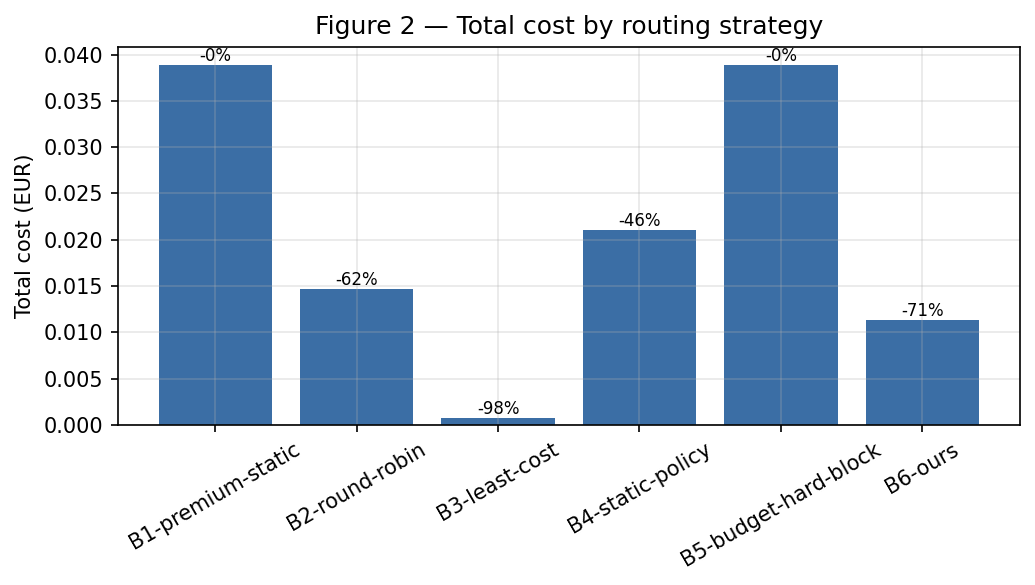
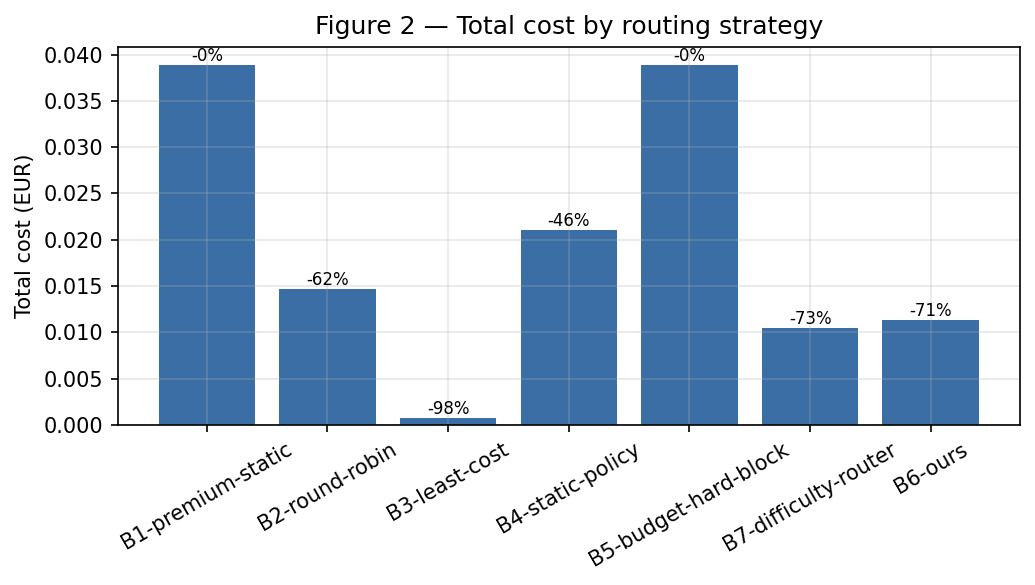
paper+exp: literature-style difficulty-router baseline (B7), feature-matrix positioning table, requirements.txt; B7 saves 73% at lower quality vs Ours 71% at higher quality + governance; refresh results/figures/PDF

diff --git a/experimentation/internal/router/router.go b/experimentation/internal/router/router.go
@@ -319,10 +319,59 @@ func blockedNoCandidate(rejected []string) Decision {
 	return Decision{Blocked: true, Reason: "no sovereignty-compliant model available", RejectedModels: rejected, Findings: findingsFor(rejected)}
 }
 
+// ---------- B7 Difficulty router (Hybrid-LLM / RouteLLM-style proxy) ----------
+
+// DifficultyRouter routes by an estimated query difficulty/quality need, like the
+// learned difficulty routers in the literature — but using a transparent
+// heuristic (token length + the workload's minimum-quality requirement) rather
+// than a trained predictor. It is a stronger, literature-aligned baseline than
+// the naïve B1-B5, and it respects sovereignty (chooses among compliant models).
+type DifficultyRouter struct{}
+
+func (DifficultyRouter) Name() string { return "B7-difficulty-router" }
+
+func (DifficultyRouter) Choose(ctx RequestContext, models map[string]catalog.Model) Decision {
+	ok, rejected := candidates(ctx, models)
+	if len(ok) == 0 {
+		return blockedNoCandidate(rejected)
+	}
+	lenScore := float64(ctx.EstInputTokens) / 400.0
+	if lenScore > 1 {
+		lenScore = 1
+	}
+	// The quality requirement dominates (Hybrid-LLM-style: quality-needy/long
+	// queries -> stronger models), so it does not collapse to always-cheapest.
+	difficulty := ctx.MinQuality
+	if lenScore > difficulty {
+		difficulty = lenScore
+	}
+	var best catalog.Model
+	found := false
+	for _, m := range ok {
+		if m.QualityPrior >= difficulty {
+			if !found || estCost(m, ctx.EstInputTokens, ctx.EstOutputTokens) < estCost(best, ctx.EstInputTokens, ctx.EstOutputTokens) {
+				best, found = m, true
+			}
+		}
+	}
+	if !found {
+		best = ok[0]
+		for _, m := range ok[1:] {
+			if m.QualityPrior > best.QualityPrior {
+				best = m
+			}
+		}
+	}
+	return Decision{ModelID: best.ID, Reason: fmt.Sprintf("difficulty=%.2f", difficulty),
+		ExpectedCostEUR: estCost(best, ctx.EstInputTokens, ctx.EstOutputTokens),
+		RejectedModels:  rejected, Findings: findingsFor(rejected), Fallback: best.ID != ctx.PremiumModel}
+}
+
 // All returns the full strategy set in canonical order. RoundRobin is stateful,
 // so a fresh instance is created per call site.
 func All() []Strategy {
 	return []Strategy{
-		PremiumStatic{}, &RoundRobin{}, LeastCost{}, StaticPolicy{}, BudgetHardBlock{}, Ours{W: DefaultWeights()},
+		PremiumStatic{}, &RoundRobin{}, LeastCost{}, StaticPolicy{}, BudgetHardBlock{},
+		DifficultyRouter{}, Ours{W: DefaultWeights()},
 	}
 }

diff --git a/experimentation/results/TEST_STATUS.md b/experimentation/results/TEST_STATUS.md
@@ -1,8 +1,8 @@
 # Experiment test status
 
-- Run started: 2026-06-07T00:28:29Z
-- Last update: 2026-06-07T00:28:31Z
-- Totals: **42 PASS**, **0 FAIL**, 42 total
+- Run started: 2026-06-07T05:57:14Z
+- Last update: 2026-06-07T05:57:20Z
+- Totals: **46 PASS**, **0 FAIL**, 46 total
 
 | # | Group | Test | Status | Duration | Details |
 |--:|-------|------|:------:|---------:|---------|
@@ -26,25 +26,29 @@
 | 18 | RQ1-3-matrix | B5-budget-hard-block / W2-RAG-Docs | PASS | 0ms | {"blocked":0,"costEUR":0.003018,"meanQuality1to5":5,"served":10} |
 | 19 | RQ1-3-matrix | B5-budget-hard-block / W3-Dev-Assistant | PASS | 0ms | {"blocked":0,"costEUR":0.012403,"meanQuality1to5":4.7,"served":10} |
 | 20 | RQ1-3-matrix | B5-budget-hard-block / W4-Analytical-Agent | PASS | 0ms | {"blocked":0,"costEUR":0.008095,"meanQuality1to5":4.2,"served":10} |
-| 21 | RQ1-3-matrix | B6-ours / W1-HR-Chatbot | PASS | 0ms | {"blocked":0,"costEUR":0.000717,"meanQuality1to5":4.3,"served":10} |
-| 22 | RQ1-3-matrix | B6-ours / W2-RAG-Docs | PASS | 0ms | {"blocked":0,"costEUR":0.000182,"meanQuality1to5":5,"served":10} |
-| 23 | RQ1-3-matrix | B6-ours / W3-Dev-Assistant | PASS | 0ms | {"blocked":0,"costEUR":0.009958,"meanQuality1to5":4.9,"served":10} |
-| 24 | RQ1-3-matrix | B6-ours / W4-Analytical-Agent | PASS | 0ms | {"blocked":0,"costEUR":0.000497,"meanQuality1to5":4.4,"served":10} |
-| 25 | RQ4-sovereignty | global / B1-premium-static | PASS | 2ms | {"blocked":0,"costEUR":0.03893,"meanQualityNorm":0.9,"reroutes":0,"served":40,"violations":0} |
-| 26 | RQ4-sovereignty | global / B6-ours | PASS | 0ms | {"blocked":0,"costEUR":0.011353,"meanQualityNorm":0.9125,"reroutes":40,"served":40,"violations":0} |
-| 27 | RQ4-sovereignty | eu-only / B1-premium-static | PASS | 0ms | {"blocked":0,"costEUR":0.03893,"meanQualityNorm":0.9,"reroutes":0,"served":40,"violations":40} |
-| 28 | RQ4-sovereignty | eu-only / B6-ours | PASS | 0ms | {"blocked":0,"costEUR":0.018161,"meanQualityNorm":0.86625,"reroutes":40,"served":40,"violations":0} |
-| 29 | RQ4-sovereignty | france-only / B1-premium-static | PASS | 0ms | {"blocked":0,"costEUR":0.03893,"meanQualityNorm":0.9,"reroutes":0,"served":40,"violations":40} |
-| 30 | RQ4-sovereignty | france-only / B6-ours | PASS | 0ms | {"blocked":20,"costEUR":0.00011,"meanQualityNorm":0.74,"reroutes":20,"served":20,"violations":0} |
-| 31 | RQ4-sovereignty | no-external-sensitive / B1-premium-static | PASS | 0ms | {"blocked":0,"costEUR":0.03893,"meanQualityNorm":0.9,"reroutes":0,"served":40,"violations":10} |
-| 32 | RQ4-sovereignty | no-external-sensitive / B6-ours | PASS | 0ms | {"blocked":0,"costEUR":0.010691,"meanQualityNorm":0.89125,"reroutes":40,"served":40,"violations":0} |
-| 33 | RQ4-sovereignty | self-hosted-only / B1-premium-static | PASS | 0ms | {"blocked":0,"costEUR":0.03893,"meanQualityNorm":0.9,"reroutes":0,"served":40,"violations":40} |
-| 34 | RQ4-sovereignty | self-hosted-only / B6-ours | PASS | 0ms | {"blocked":20,"costEUR":0.00011,"meanQualityNorm":0.74,"reroutes":20,"served":20,"violations":0} |
-| 35 | RQ5-budget | alert-only | PASS | 0ms | {"availabilityPct":100,"blocked":0,"budgetEUR":0.003238,"meanQualityNorm":0.8,"overrunPct":150,"served":10,"usedEUR":0.008095} |
-| 36 | RQ5-budget | hard-block | PASS | 0ms | {"availabilityPct":60,"blocked":4,"budgetEUR":0.003238,"meanQualityNorm":0.75,"overrunPct":54.030266,"served":6,"usedEUR":0.004987} |
-| 37 | RQ5-budget | ours-graceful | PASS | 0ms | {"availabilityPct":100,"blocked":0,"budgetEUR":0.003238,"meanQualityNorm":0.85,"overrunPct":0,"served":10,"usedEUR":0.000497} |
-| 38 | RQ6-breakeven | managed-vs-selfhosted-curve | PASS | 0ms | {"breakEvenTokensPerDay":25628906.25,"modeled":true,"points":14} |
-| 39 | RQ-ablation | full-system | PASS | 0ms | {"costEUR":0.011353,"meanQualityNorm":0.9125} |
-| 40 | RQ-ablation | no-cost-term | PASS | 0ms | {"costEUR":0.03893,"meanQualityNorm":0.9} |
-| 41 | RQ-ablation | no-quality-term | PASS | 0ms | {"costEUR":0.001213,"meanQualityNorm":0.8625} |
-| 42 | RQ-ablation | no-latency-term | PASS | 0ms | {"costEUR":0.011353,"meanQualityNorm":0.9125} |
+| 21 | RQ1-3-matrix | B7-difficulty-router / W1-HR-Chatbot | PASS | 0ms | {"blocked":0,"costEUR":0.000055,"meanQuality1to5":3.96,"served":10} |
+| 22 | RQ1-3-matrix | B7-difficulty-router / W2-RAG-Docs | PASS | 0ms | {"blocked":0,"costEUR":0.000182,"meanQuality1to5":5,"served":10} |
+| 23 | RQ1-3-matrix | B7-difficulty-router / W3-Dev-Assistant | PASS | 0ms | {"blocked":0,"costEUR":0.009958,"meanQuality1to5":4.9,"served":10} |
+| 24 | RQ1-3-matrix | B7-difficulty-router / W4-Analytical-Agent | PASS | 4054ms | {"blocked":0,"costEUR":0.000292,"meanQuality1to5":4,"served":10} |
+| 25 | RQ1-3-matrix | B6-ours / W1-HR-Chatbot | PASS | 0ms | {"blocked":0,"costEUR":0.000717,"meanQuality1to5":4.3,"served":10} |
+| 26 | RQ1-3-matrix | B6-ours / W2-RAG-Docs | PASS | 0ms | {"blocked":0,"costEUR":0.000182,"meanQuality1to5":5,"served":10} |
+| 27 | RQ1-3-matrix | B6-ours / W3-Dev-Assistant | PASS | 0ms | {"blocked":0,"costEUR":0.009958,"meanQuality1to5":4.9,"served":10} |
+| 28 | RQ1-3-matrix | B6-ours / W4-Analytical-Agent | PASS | 0ms | {"blocked":0,"costEUR":0.000497,"meanQuality1to5":4.4,"served":10} |
+| 29 | RQ4-sovereignty | global / B1-premium-static | PASS | 0ms | {"blocked":0,"costEUR":0.03893,"meanQualityNorm":0.9,"reroutes":0,"served":40,"violations":0} |
+| 30 | RQ4-sovereignty | global / B6-ours | PASS | 0ms | {"blocked":0,"costEUR":0.011353,"meanQualityNorm":0.9125,"reroutes":40,"served":40,"violations":0} |
+| 31 | RQ4-sovereignty | eu-only / B1-premium-static | PASS | 0ms | {"blocked":0,"costEUR":0.03893,"meanQualityNorm":0.9,"reroutes":0,"served":40,"violations":40} |
+| 32 | RQ4-sovereignty | eu-only / B6-ours | PASS | 0ms | {"blocked":0,"costEUR":0.018161,"meanQualityNorm":0.86625,"reroutes":40,"served":40,"violations":0} |
+| 33 | RQ4-sovereignty | france-only / B1-premium-static | PASS | 0ms | {"blocked":0,"costEUR":0.03893,"meanQualityNorm":0.9,"reroutes":0,"served":40,"violations":40} |
+| 34 | RQ4-sovereignty | france-only / B6-ours | PASS | 0ms | {"blocked":20,"costEUR":0.00011,"meanQualityNorm":0.74,"reroutes":20,"served":20,"violations":0} |
+| 35 | RQ4-sovereignty | no-external-sensitive / B1-premium-static | PASS | 0ms | {"blocked":0,"costEUR":0.03893,"meanQualityNorm":0.9,"reroutes":0,"served":40,"violations":10} |
+| 36 | RQ4-sovereignty | no-external-sensitive / B6-ours | PASS | 0ms | {"blocked":0,"costEUR":0.010691,"meanQualityNorm":0.89125,"reroutes":40,"served":40,"violations":0} |
+| 37 | RQ4-sovereignty | self-hosted-only / B1-premium-static | PASS | 0ms | {"blocked":0,"costEUR":0.03893,"meanQualityNorm":0.9,"reroutes":0,"served":40,"violations":40} |
+| 38 | RQ4-sovereignty | self-hosted-only / B6-ours | PASS | 0ms | {"blocked":20,"costEUR":0.00011,"meanQualityNorm":0.74,"reroutes":20,"served":20,"violations":0} |
+| 39 | RQ5-budget | alert-only | PASS | 0ms | {"availabilityPct":100,"blocked":0,"budgetEUR":0.003238,"meanQualityNorm":0.8,"overrunPct":150,"served":10,"usedEUR":0.008095} |
+| 40 | RQ5-budget | hard-block | PASS | 0ms | {"availabilityPct":60,"blocked":4,"budgetEUR":0.003238,"meanQualityNorm":0.75,"overrunPct":54.030266,"served":6,"usedEUR":0.004987} |
+| 41 | RQ5-budget | ours-graceful | PASS | 0ms | {"availabilityPct":100,"blocked":0,"budgetEUR":0.003238,"meanQualityNorm":0.85,"overrunPct":0,"served":10,"usedEUR":0.000497} |
+| 42 | RQ6-breakeven | managed-vs-selfhosted-curve | PASS | 0ms | {"breakEvenTokensPerDay":25628906.25,"modeled":true,"points":14} |
+| 43 | RQ-ablation | full-system | PASS | 0ms | {"costEUR":0.011353,"meanQualityNorm":0.9125} |
+| 44 | RQ-ablation | no-cost-term | PASS | 0ms | {"costEUR":0.03893,"meanQualityNorm":0.9} |
+| 45 | RQ-ablation | no-quality-term | PASS | 0ms | {"costEUR":0.001213,"meanQualityNorm":0.8625} |
+| 46 | RQ-ablation | no-latency-term | PASS | 0ms | {"costEUR":0.011353,"meanQualityNorm":0.9125} |

diff --git a/experimentation/paper/paper.md b/experimentation/paper/paper.md
@@ -101,6 +101,25 @@ both absolute and pairwise protocols while acknowledging its documented biases (
 EU AI Act [euaiact2024]; our system targets *audit preparation* for these regimes, not legal
 attestation.
 
+**Positioning (Table 0).** The following feature matrix makes the delta explicit: prior routing work
+optimizes the cost–quality trade-off; we add the governance dimensions (sovereignty, per-tenant
+budget, attribution) at the gateway/control-plane level, and the managed-vs-self-hosted decision.
+
+| Capability | FrugalGPT | Hybrid LLM | RouteLLM | AutoMix | **Ours** |
+|---|:--:|:--:|:--:|:--:|:--:|
+| Cost-aware routing | ✓ | ✓ | ✓ | ✓ | ✓ |
+| Quality-aware routing | ✓ | ✓ | ✓ | ✓ | ✓ |
+| Learned difficulty predictor | ✓ | ✓ | ✓ | ✓ | ✗ (priors; future: graft) |
+| **Hard sovereignty constraints** | ✗ | ✗ | ✗ | ✗ | **✓** |
+| **Per-team/namespace budgets** | ✗ | ✗ | ✗ | ✗ | **✓** |
+| **Budget-aware graceful degradation** | ✗ | ✗ | ✗ | ✗ | **✓** |
+| **Cost attribution (team/ns/app)** | ✗ | ✗ | ✗ | ✗ | **✓** |
+| **Managed-vs-self-hosted break-even** | ✗ | ✗ | ✗ | ✗ | **✓** |
+| Gateway/K8s control-plane artifact | ✗ | ✗ | ✗ | ✗ | **✓** |
+
+We do not claim to beat learned routers on the cost–quality frontier; rather, our governance layer is
+*orthogonal* and could wrap any of them (a planned integration, §9).
+
 ## 3. Problem Formulation and Algorithm
 
 A request $r$ carries metadata (team, namespace, sensitivity) and an estimated token footprint. Given
@@ -169,14 +188,20 @@ supports ≥30 repetitions (§8).
 ### RQ1 — Cost (Figure 2, Table 1)
 Relative to premium-static, **B6-ours cuts total cost by 70.8%** (0.01135 vs 0.03893 EUR over the
 40-prompt matrix; cost/request 0.000284 vs 0.000973). With the second provider available, Ours routes
-much traffic to the cheaper Mistral EU and OpenAI mid/cheap tiers. Naïve least-cost (B3) saves 98.2%
-but at a quality cost (RQ2); round-robin 62.3%; static policy 46.0%.
+much traffic to the cheaper Mistral EU and OpenAI mid/cheap tiers. We also compare a **literature-style
+difficulty router** (B7, a Hybrid-LLM/RouteLLM-style proxy that routes by estimated quality need): it
+saves slightly *more* (73.1%) but at lower quality (0.866, RQ2), and — unlike Ours — it has no
+sovereignty, budget, or attribution governance. Naïve least-cost (B3) saves 98.2% at the largest
+quality cost; round-robin 62.3%; static policy 46.0%.
 
 ### RQ2 — Quality (Figure 3, Table 2)
 Within this two-provider, single-pass scope, B6-ours's mean normalized quality is **comparable to —
 marginally above — premium** (0.9125 vs 0.900; acceptable-rate 97.5%), with a pairwise win-rate vs the
 premium reference of **50.0%** (statistical parity). The cross-provider mix helps: Mistral-Large-3
-sometimes matches or beats gpt-4o on the judge. Least-cost drops to 0.858 and static-policy to 0.869.
+sometimes matches or beats gpt-4o on the judge. Least-cost drops to 0.858, static-policy to 0.869, and
+the **difficulty router (B7) to 0.866 at 73.1% savings** — so against a literature-style router Ours
+trades ~2 points of savings for **higher quality plus the governance layer (sovereignty/budget/
+attribution)** that B7 lacks.
 Two caveats remain: (i) the **premium model is also the routing reference and the judge anchor**, which
 can bias pairwise results; (ii) we have **not yet run significance tests** (one deterministic pass).
 We therefore claim only that *quality remained comparable within the evaluated scope*, and defer a

diff --git a/experimentation/results/summary.md b/experimentation/results/summary.md
@@ -11,6 +11,7 @@
 | B3-least-cost        |         0.0007   |       40 |         0 |               1.7e-05  |                0     |                    98.2  |
 | B4-static-policy     |         0.021011 |       40 |         0 |               0.000525 |                5e-06 |                    46.03 |
 | B5-budget-hard-block |         0.03893  |       40 |         0 |               0.000973 |                7e-06 |                     0    |
+| B7-difficulty-router |         0.010486 |       40 |         0 |               0.000262 |                2e-06 |                    73.06 |
 | B6-ours              |         0.011353 |       40 |         0 |               0.000284 |                2e-06 |                    70.84 |
 
 ## RQ2 Quality
@@ -21,17 +22,19 @@
 | B3-least-cost        |             0.8575  |                 100   |                    42.5  |                     20 |
 | B4-static-policy     |             0.86875 |                  97.5 |                    35    |                     20 |
 | B5-budget-hard-block |             0.9     |                  97.5 |                     0    |                      0 |
+| B7-difficulty-router |             0.86625 |                  95   |                    55    |                     30 |
 | B6-ours              |             0.9125  |                  97.5 |                    50    |                     40 |
 
 ## RQ3 Latency
 | strategy             |   latency_p50_ms |   latency_p95_ms |   latency_p99_ms |   latency_mean_ms |   routing_decision_us |
 |:---------------------|-----------------:|-----------------:|-----------------:|------------------:|----------------------:|
-| B1-premium-static    |              906 |             2494 |             2646 |           1125.97 |                 10.68 |
-| B2-round-robin       |              797 |             2902 |             3576 |           1075.38 |                 13.6  |
-| B3-least-cost        |              700 |             1476 |             2815 |            753.98 |                  7.15 |
-| B4-static-policy     |              797 |             1911 |             2634 |            941.3  |                 13.21 |
-| B5-budget-hard-block |              906 |             2494 |             2646 |           1125.97 |                  9    |
-| B6-ours              |              946 |             3475 |             4265 |           1509.95 |                 14.66 |
+| B1-premium-static    |              906 |             2494 |             2646 |           1125.97 |                 10.47 |
+| B2-round-robin       |              797 |             2902 |             3576 |           1075.38 |                 12.93 |
+| B3-least-cost        |              700 |             1476 |             2815 |            753.98 |                 15.96 |
+| B4-static-policy     |              797 |             1911 |             2634 |            941.3  |                  9.5  |
+| B5-budget-hard-block |              906 |             2494 |             2646 |           1125.97 |                  9.38 |
+| B7-difficulty-router |              700 |             1912 |             2813 |            931.33 |                 13.67 |
+| B6-ours              |              946 |             3475 |             4265 |           1509.95 |                 10.83 |
 
 ## RQ4 Sovereignty
 | scenario              | strategy          |   total_cost_eur |   served |   blocked |   violations |   reroutes |   mean_quality_norm |